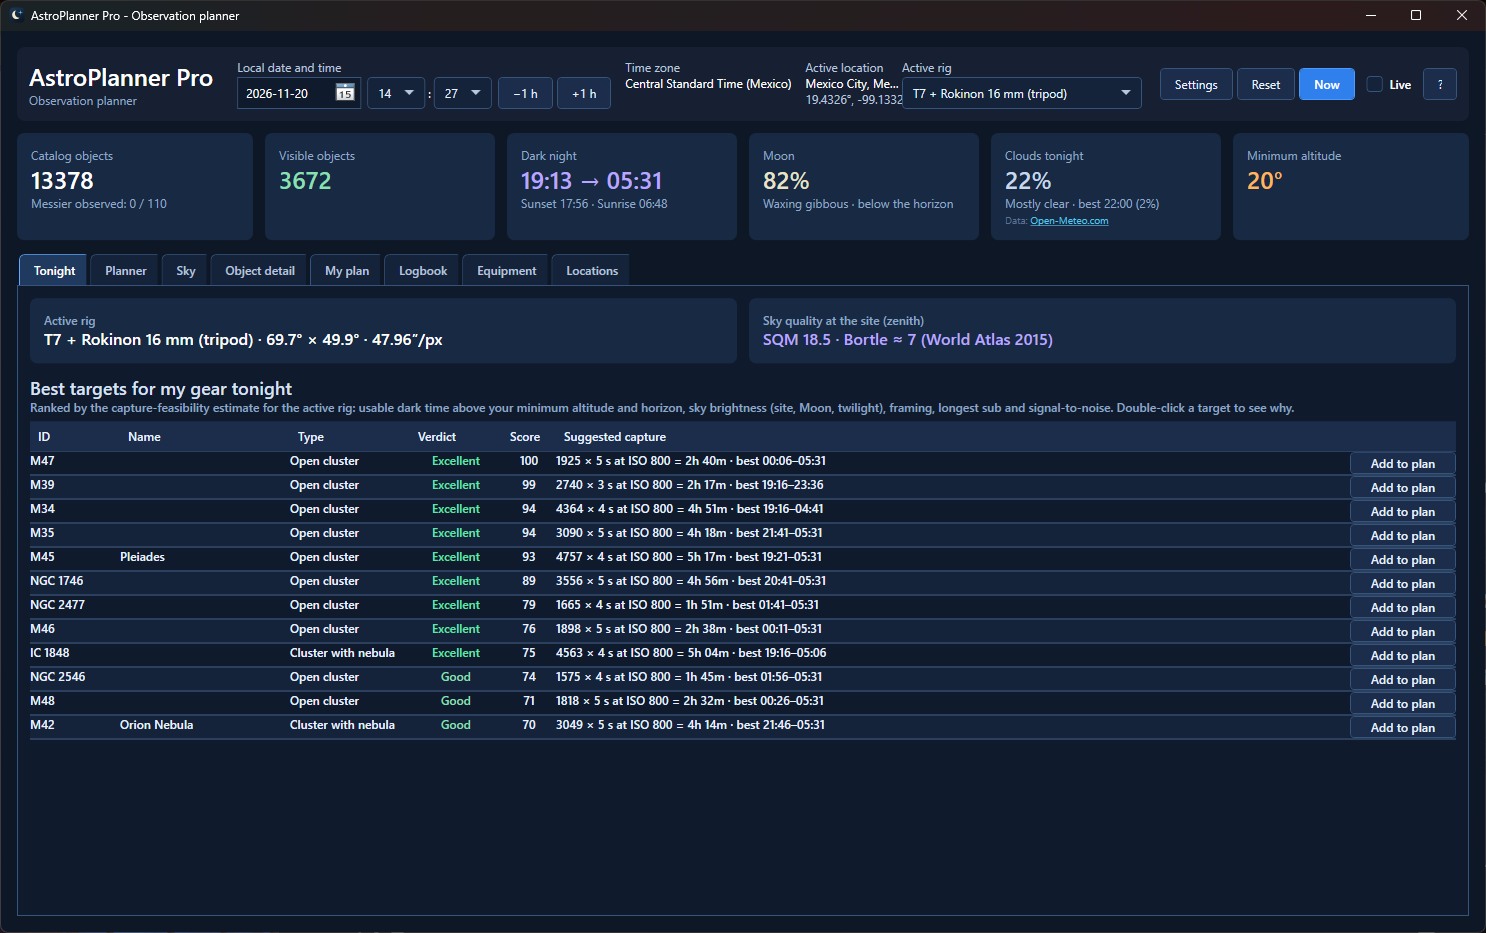
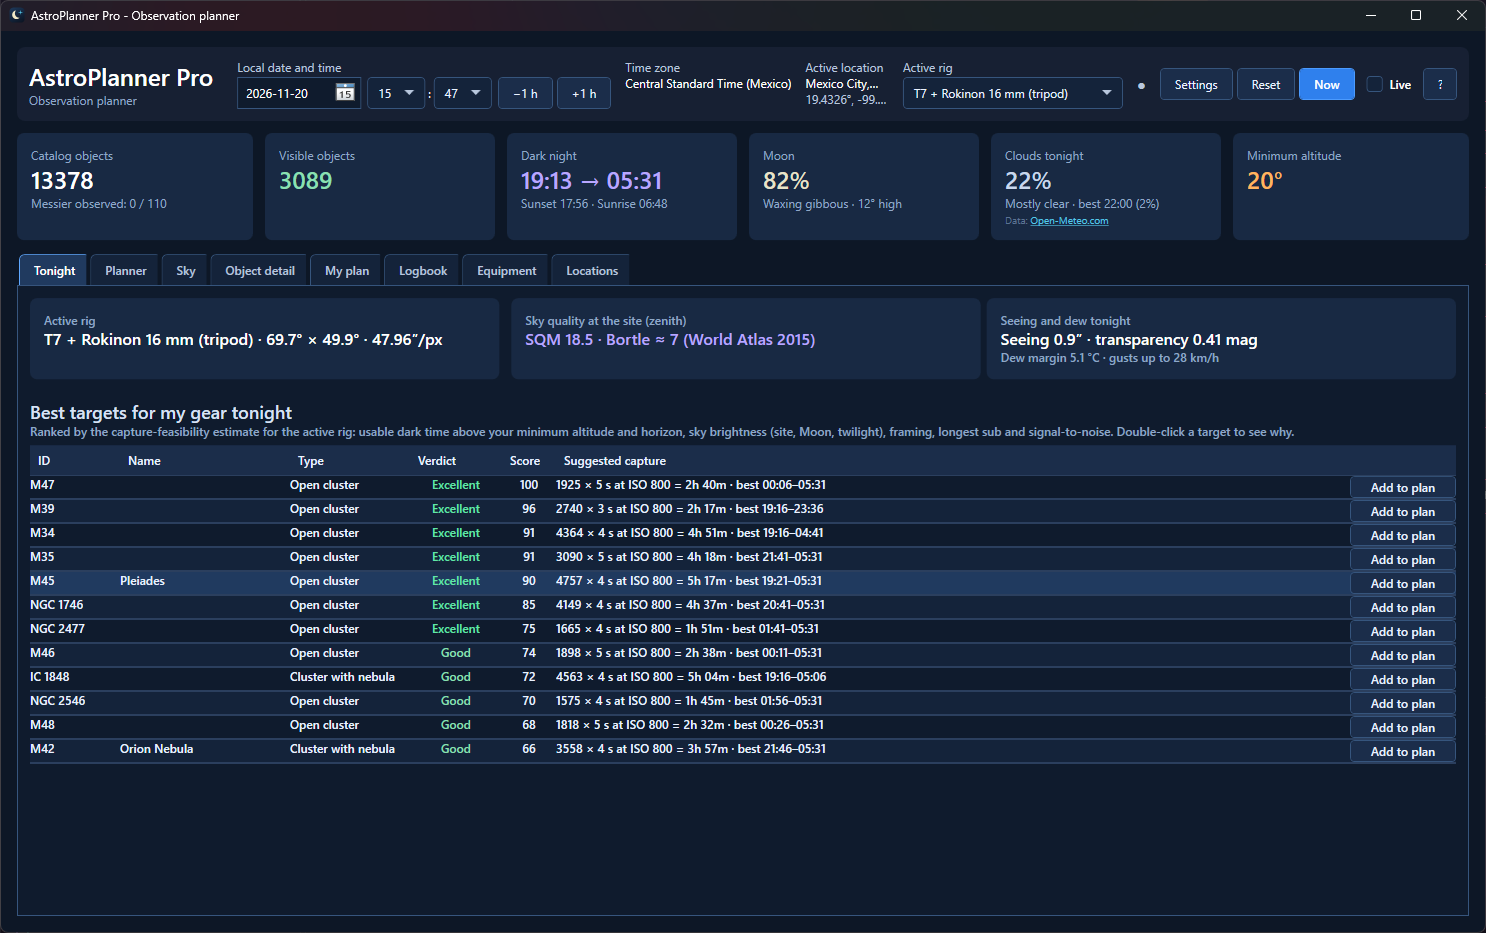
docs: M4 part 1 (forecasts, cache, privacy) in README, CHANGELOG and the feasibility model

diff --git a/docs/feasibility-model.md b/docs/feasibility-model.md
@@ -214,7 +214,8 @@ unless noted. It covers sanity scenarios, monotonicity and edge cases.
   predicted from a city.
 - One "characteristic" surface brightness per object. Real objects have bright cores and faint
   halos.
-- Seeing is fixed at 2.5″ and transparency is not modelled yet (M4: 7Timer!).
+- Without a forecast the seeing is 2.5″ and the extinction is the site's k. With the 7Timer!
+  forecast both follow the night (§11).
 - No star trailing beyond the NPF limit, no field rotation for alt-az beyond the default limit,
   no dew or wind.
 - The thresholds and weights are deliberately simple and tunable. Predictions can be compared with
@@ -267,6 +268,38 @@ Tests (`SessionSchedulerTests`):
   ≈ 01:10);
 - the profile matches the report.
 
+## 11. Forecast seeing and transparency (spec §9.2)
+
+When the 7Timer! ASTRO forecast covers the dark night, `NightConditions` (Core/Weather) averages
+its 3-hour points over it. `FeasibilityRequest.EffectiveConstants` then applies them:
+
+- **Seeing:** the mean forecast FWHM replaces `SeeingArcsec`. It changes the sampling verdict and
+  the seeing core used for point sources. A *Seeing* reason is added, negative from 2.25″.
+- **Transparency:** 7Timer!'s scale is in magnitudes per air mass and starts at "< 0.3" for its
+  clearest class, above the clean-air V extinction of a good site. So it does not replace k. Only
+  the excess over `ClearTransparency` (0.3) is added to the site's k, as haze:
+  k = k_site + max(0, T − 0.3). A *Transparency* reason gives T and the added extinction. It is
+  positive up to +0.05 and negative from +0.25.
+
+The classes are converted to numbers at the middle of each documented range
+(`AstroForecastScales`):
+
+| Class | 1 | 2 | 3 | 4 | 5 | 6 | 7 | 8 |
+|---|---|---|---|---|---|---|---|---|
+| Seeing (″) | 0.4 | 0.625 | 0.875 | 1.125 | 1.375 | 1.75 | 2.25 | 2.75 |
+| Transparency (mag/air mass) | 0.25 | 0.35 | 0.45 | 0.55 | 0.65 | 0.775 | 0.925 | 1.1 |
+
+**Dew and wind** (`NightConditions`, from Open-Meteo, not part of the score) are warnings in
+Tonight:
+
+- *dew likely* when the air comes within 2 °C of its dew point, *possible* within 4 °C. Optics
+  radiate to the sky and cool below the air, so they fog before the air saturates;
+- *wind* when gusts exceed 30 km/h for a camera on a tripod or tracker, or 20 km/h for a telescope
+  (alt-az or equatorial).
+
+The thresholds are in `ConditionThresholds`. Without a forecast nothing changes, and the verdicts
+are exactly those of §1–§9. Tests: `NightConditionsTests`.
+
 ## Default constants (`FeasibilityConstants.Default`)
 
 | Constant | Value |
@@ -286,6 +319,8 @@ Tests (`SessionSchedulerTests`):
 | ExcellentScore / GoodScore / MarginalScore | 75 / 55 / 30 |
 | Step | 5 min |
 | SessionSchedulerOptions.MinimumBlock | 20 min |
+| ClearTransparency | 0.3 mag/air mass |
+| ConditionThresholds (dew high / moderate; gusts camera / telescope) | 2 / 4 °C; 30 / 20 km/h |
 
 ## References
 

diff --git a/README.md b/README.md
@@ -65,7 +65,10 @@
   above your minimum altitude and your local horizon, computed for the whole catalog in the
   background.
 - 🌙 **The real night**: sunset and sunrise, astronomical darkness, Moon phase and a warning when its glare gets in the way.
-- ☁ **Hourly clouds**: Open-Meteo forecast and the clearest hour of the night.
+- ☁ **Tonight's conditions**: hourly clouds (Open-Meteo), seeing and transparency (7Timer!) and
+  warnings for dew (air close to its dew point) and wind (gusts too strong for your mount). The
+  forecast seeing and haze refine the verdicts. Forecasts are kept on disk, so offline you see the
+  last one, marked with its time.
 - 🌠 **Live sky**: a GPU-rendered sky dome (three.js in WebView2) with 83k stars, constellations,
   the Milky Way, 13k deep-sky objects and the Sun, Moon (with its phase) and planets, all
   positioned by the same tested astronomy core as the tables. Play time at up to ×3600, step by
@@ -89,8 +92,8 @@
   for import (the v1 files are only read).
 - ⏱ **Live mode**: follows the clock and refreshes everything every minute.
 
-It works offline; the internet is only used for the cloud forecast and the new-version notice, and both
-can be turned off.
+It works offline; the internet is only used for the forecasts and the new-version notice, each of
+which can be turned off.
 
 ## Where it is going (v2.0)
 
@@ -121,10 +124,15 @@ can be installed side by side.
 
 AstroPlanner Pro has no accounts and collects no data. It only connects to:
 
-- **open-meteo.com**, for the forecast, sending your location **rounded to ~1 km**;
-- **api.github.com**, to check for a new version.
+- **api.open-meteo.com**, for clouds, dew point and wind, sending your location **rounded to
+  ~1 km**;
+- **www.7timer.info**, for seeing and transparency, also sending your location **rounded to
+  ~1 km**;
+- **api.github.com**, to check for a new version (nothing about you is sent).
 
-Both can be turned off in **Settings → Internet connection**.
+Each one can be turned off in **Settings → Internet connection**, where the saved answers (kept in
+`%LocalAppData%\AstroPlannerPro\cache` for offline use) can be cleared. The dot in the top bar
+shows whether the services are online, offline (showing saved data) or off.
 
 ## For developers
 

diff --git a/CHANGELOG.md b/CHANGELOG.md
@@ -6,6 +6,30 @@ versions follow [Semantic Versioning](https://semver.org/). Versions up to 1.0.0
 
 ## [Unreleased] — 2.0.0
 
+### M4 — Online enrichment (part 1: forecasts, cache and toggles)
+
+#### Added
+- **Seeing and transparency** from 7Timer! ASTRO (3-hour steps, 3 days). The forecast seeing
+  replaces the fixed 2.5″ of the feasibility model, and the haze over 7Timer!'s clearest class is
+  added to the site's extinction. Both appear as reasons in "Why this verdict?" (see
+  `docs/feasibility-model.md` §11).
+- **Dew and wind**: Open-Meteo now also gives temperature, dew point, wind and gusts. *Tonight*
+  has a card with the seeing, transparency, dew margin and gusts, plus warnings for dew (from what
+  time) and wind (with a gust limit by mount: camera on a tripod or telescope).
+- **Disk cache** of online answers (`%LocalAppData%\AstroPlannerPro\cache`, 200 MB, least
+  recently used first out). A fresh answer avoids the request. When a service cannot be reached,
+  the last answer is used whatever its age and marked "as of HH:mm, offline".
+- **Online status** dot in the top bar (online, offline with saved data, off), with one line per
+  service in its tooltip.
+- **Settings → Internet**: a toggle for 7Timer!, a line under each service saying what it sends,
+  and *Clear cache* with its size.
+- One named HttpClient per service with the standard resilience pipeline: 2 retries with backoff,
+  a circuit breaker, and 15 s in all.
+
+#### Changed
+- An offline answer from the cache is not retried before 5 minutes, like a failure.
+- The top bar's location column trims its text instead of overlapping the rig selector.
+
 ### M3 — Equipment & feasibility (part 2: session planner)
 
 #### Added

diff --git a/THIRD_PARTY_NOTICES.md b/THIRD_PARTY_NOTICES.md
@@ -63,6 +63,12 @@ SOFTWARE, EVEN IF ADVISED OF THE POSSIBILITY OF SUCH DAMAGE.
 
 Weather data by [Open-Meteo.com](https://open-meteo.com/), under CC BY 4.0, fetched at run time.
 
+### Seeing and transparency — 7Timer!
+
+Astronomical forecast by [7Timer!](https://www.7timer.info/) (Ye, Q.-Z. 2011, *PASP* 123, 113),
+fetched at run time. Its data is free to use and redistribute for non-commercial purposes;
+AstroPlanner Pro is free.
+
 ## Sky data (shipped since M2)
 
 ### d3-celestial — BSD-3-Clause
@@ -119,6 +125,8 @@ the About window.
 | .NET, WPF, Microsoft.Extensions.DependencyInjection, Microsoft.Data.Sqlite | MIT |
 | SQLitePCLRaw (bundled SQLite) | Apache-2.0; SQLite itself is public domain |
 | CommunityToolkit.Mvvm | MIT |
+| Microsoft.Extensions.Http, Microsoft.Extensions.Http.Resilience | MIT |
+| Polly (via Microsoft.Extensions.Http.Resilience) | BSD-3-Clause — Copyright © App vNext |
 | ScottPlot, SkiaSharp | MIT |
 | PDFsharp 6.2.4 (session plan PDF) | MIT — © empira Software GmbH (PDFsharp Team). Pinned on purpose: PDFsharp 6.5.0 and later are AGPL-3.0-only and are not used |
 | System.Security.Cryptography.Pkcs, Microsoft.Extensions.Logging.Abstractions (PDFsharp dependencies) | MIT |
